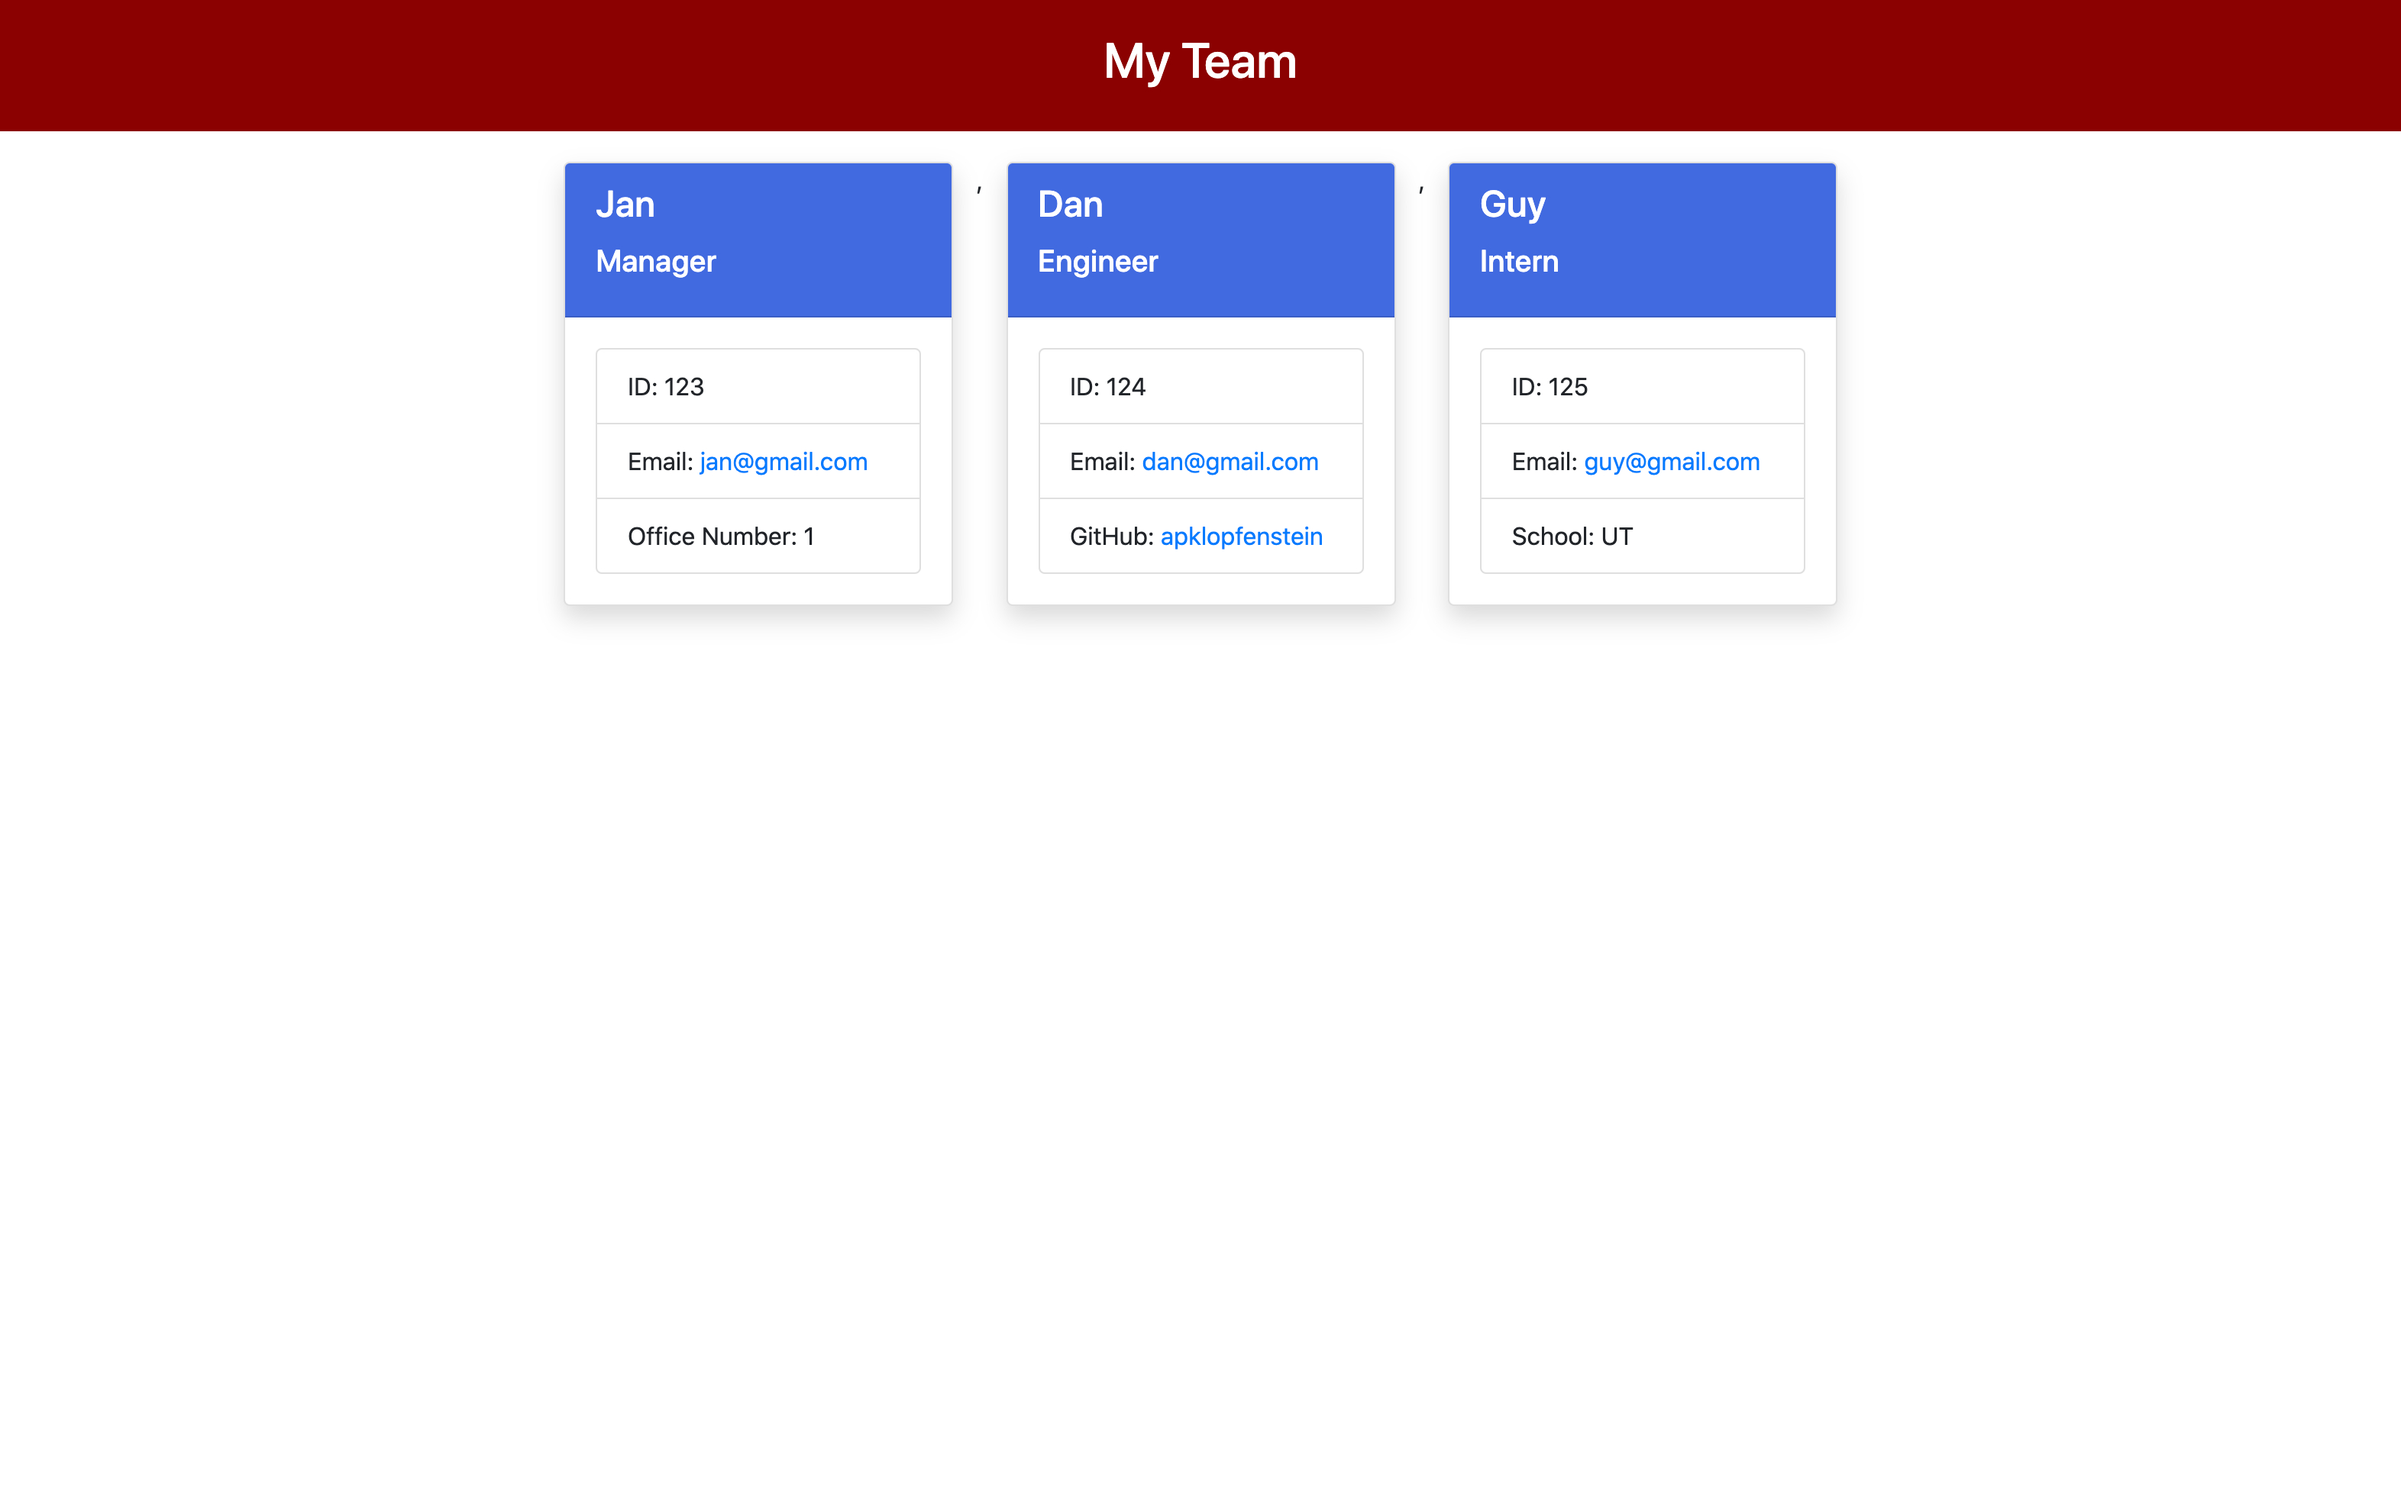
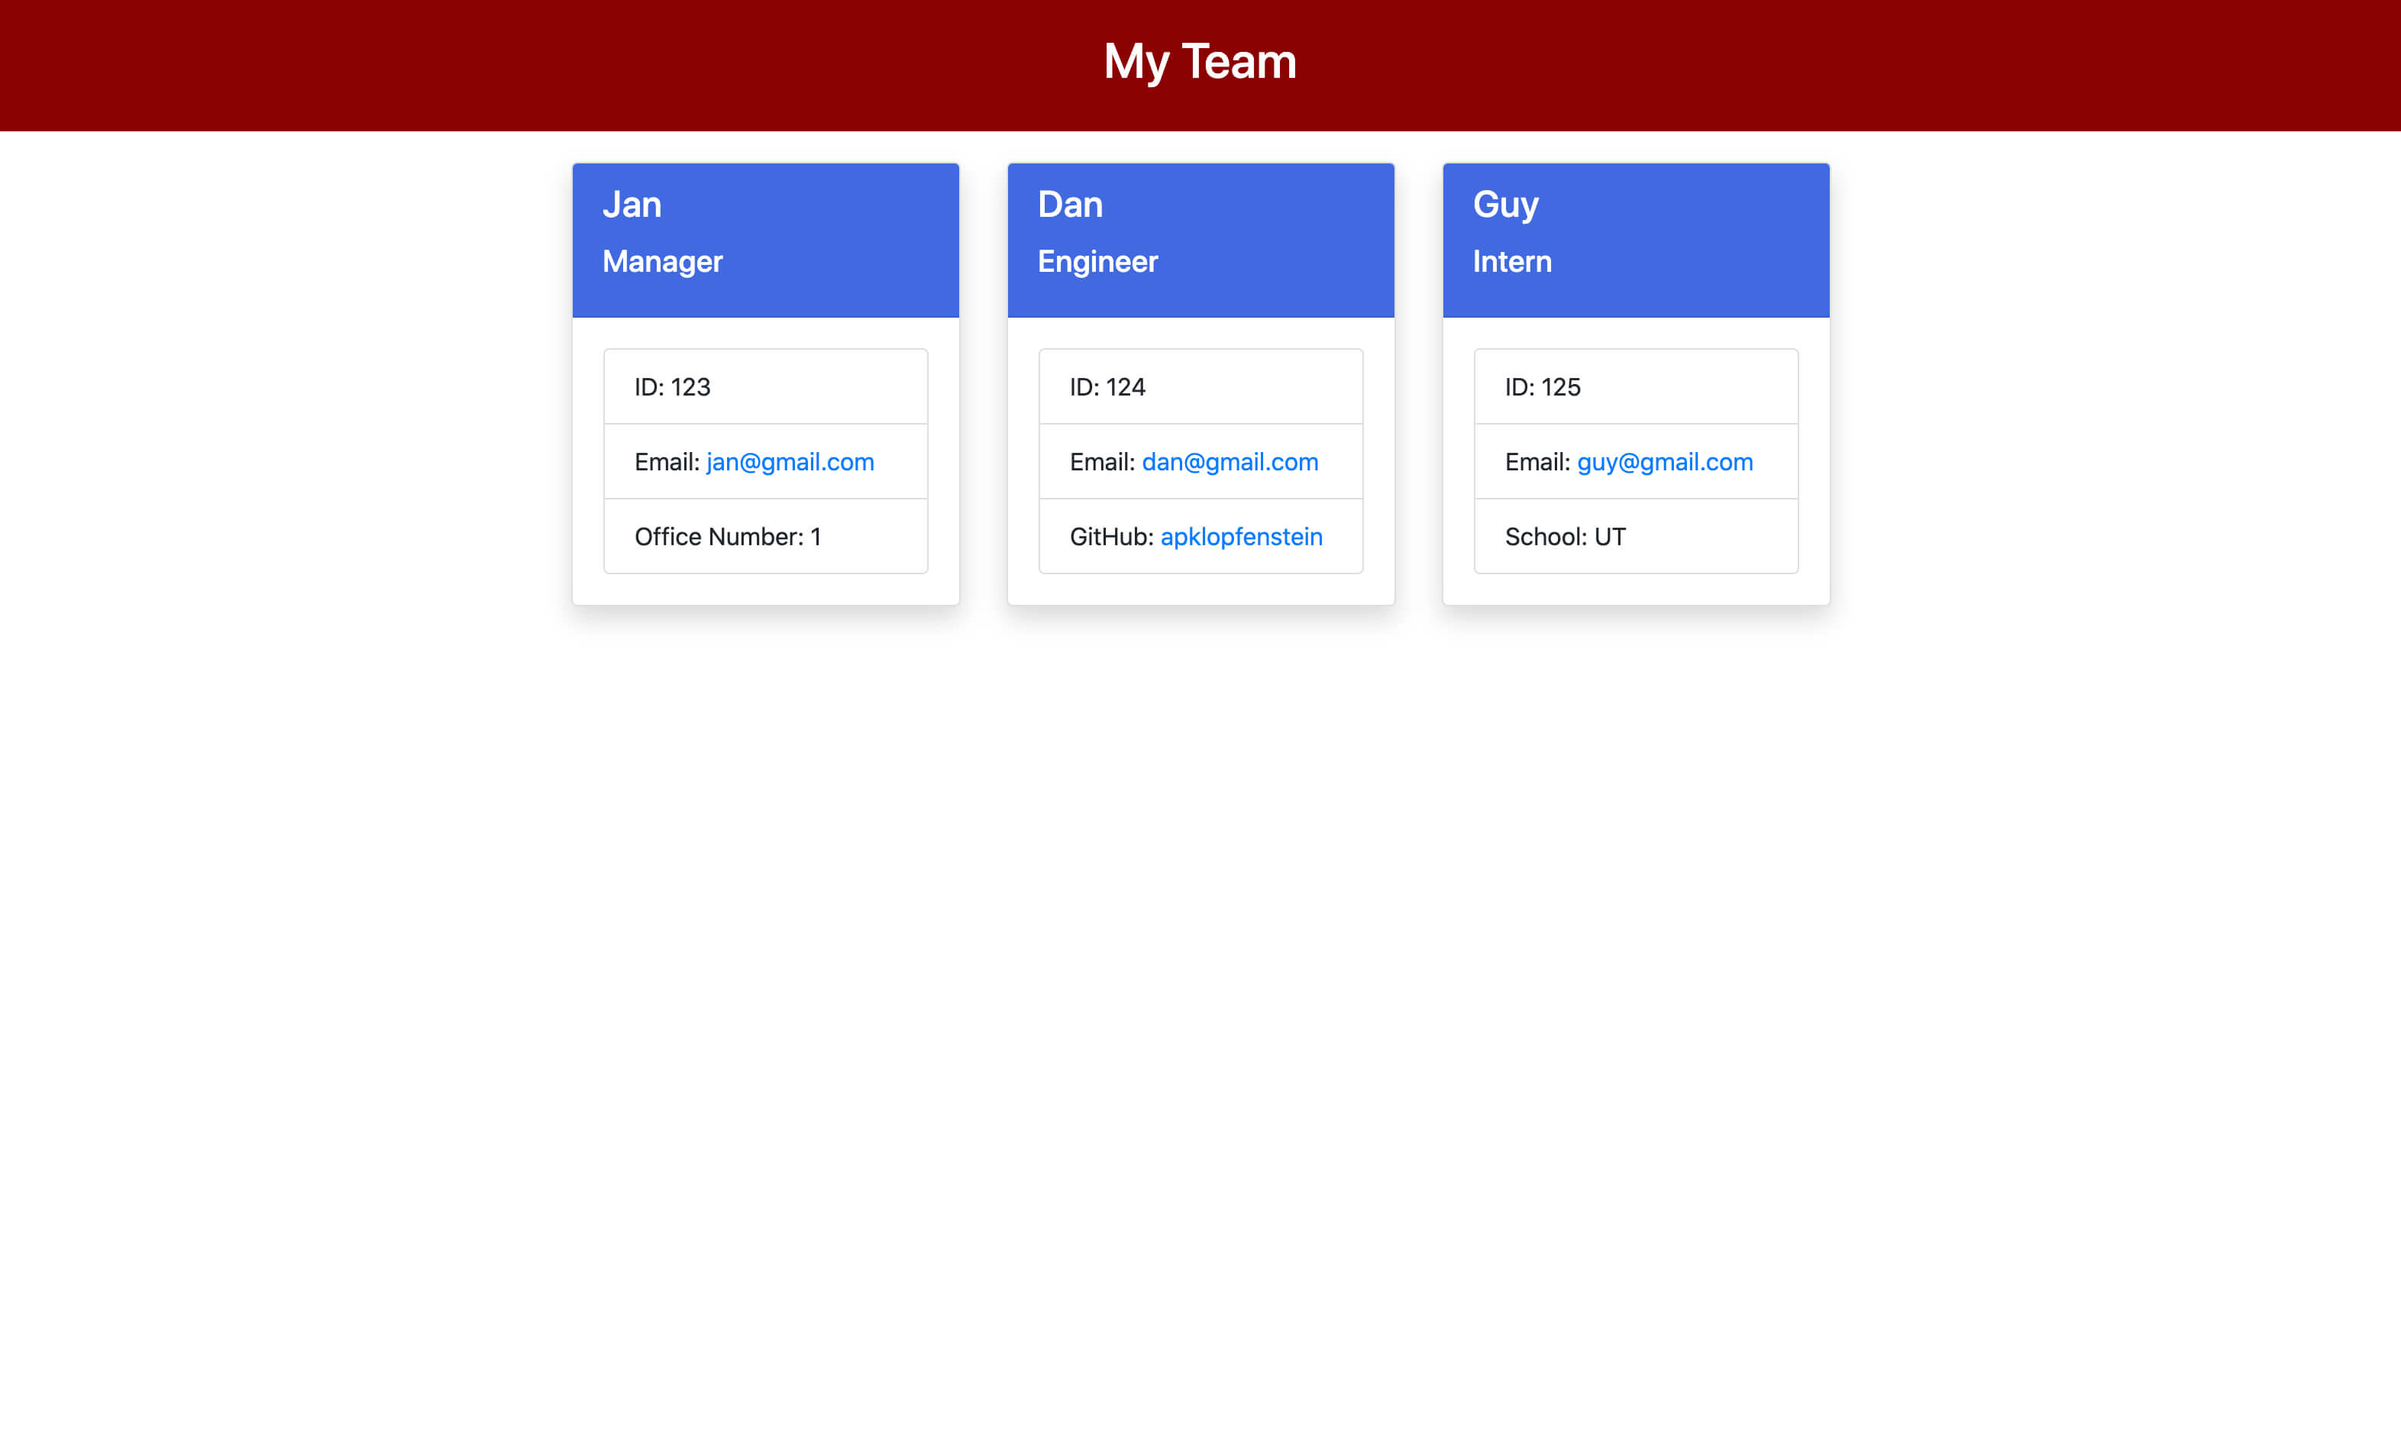
clean up

Changed region(s): [[0.0, 0.0309, 1.0, 0.4333]]

diff --git a/dist/index.html b/dist/index.html
@@ -32,7 +32,7 @@
                 </ul>
             </div>
         </div>
-    </div>,<div class="col-lg-3 col-sm-6 col-xs-12">
+    </div><div class="col-lg-3 col-sm-6 col-xs-12">
         <div class="card shadow mb-5 bg-white rounded">
             <div class="card-header">
                 <h4 class="card-title">Dan</h4>
@@ -48,7 +48,7 @@
                 </ul>
             </div>
         </div>
-    </div>,<div class="col-lg-3 col-sm-6 col-xs-12">
+    </div><div class="col-lg-3 col-sm-6 col-xs-12">
         <div class="card shadow mb-5 bg-white rounded">
             <div class="card-header">
                 <h4 class="card-title">Guy</h4>

diff --git a/lib/render.js b/lib/render.js
@@ -43,7 +43,7 @@ const render = employeeList => {
         </div>
     </div>`);
 
-    return templateBeginning + employeeCards.join() + templateEnd;
+    return templateBeginning + employeeCards.join('') + templateEnd;
 };
 
 module.exports = render;

diff --git a/README.md b/README.md
@@ -6,7 +6,7 @@ The purpose of the team profile genertor is to generate a webpage that displays 
 ## Screenshot and Walkthrough
 <img src="./images/screenshot.jpg" width="400px;">
 
-[Walkthrough Video](https://drive.google.com/file/d/1m1J7iSQg5I9y2l4xOs6ENt1P99kx0Jk5/view)
+[Walkthrough Video](https://drive.google.com/file/d/1q13fOhiGMvP2EB6o0qqiiBnimXtQB7GK/view)
 
 ## Links
 [GitHub Repo](github.com/apklopfenstein/team-profile-generator)
